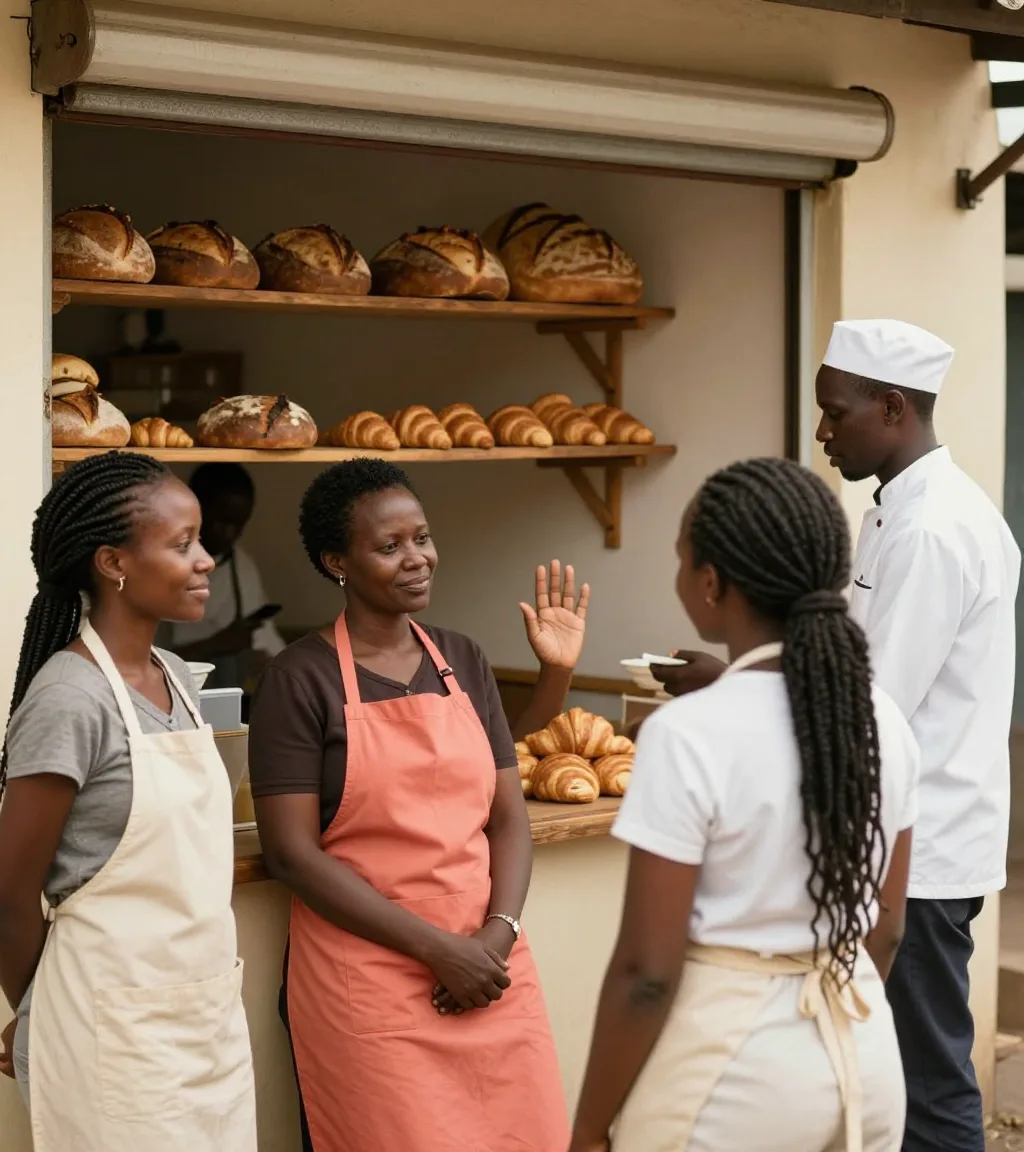
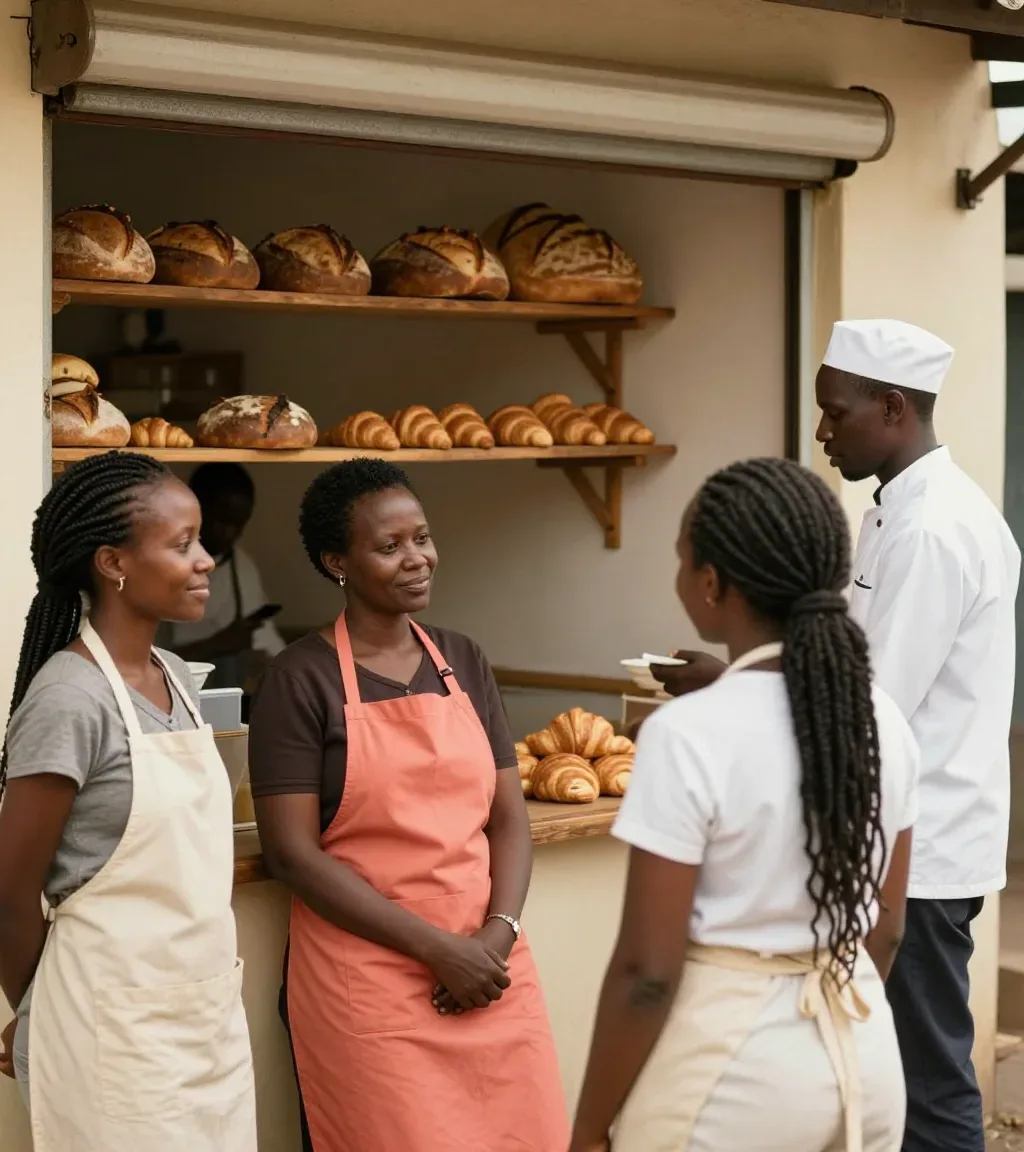
Update from claude/public-repo-483b90 (078368b)

Changed region(s): [[0.4688, 0.4688, 0.5938, 0.6562]]

diff --git a/crates/agentrix-home/templates/film.html b/crates/agentrix-home/templates/film.html
@@ -34,7 +34,7 @@
     <li class="after"><p class="when">1:06 · The same Saturday, 8 a.m.</p><p>Calm at the counter. Kilele's new site is up, with today's bakes on it.</p></li>
     <li class="after"><p class="when">1:12 · 11:02 a.m.</p><p>In Wanjiru's console, every order sits in one list with a time to collect.</p><p class="said">Orders land in one list, each with a time to collect.</p></li>
     <li class="after"><p class="when">1:20 · 2:14 p.m.</p><p>Amani and Zawadi design the cake on the site: two tiers, gluten-free sponge, vanilla, to collect. The site doesn't know about gold lettering, so it asks Wanjiru on Telegram, and she answers yes between batches.</p><p class="said">Amani designs Zawadi's cake from what Kilele actually makes. What the site doesn't know, it asks Wanjiru on Telegram. She answers between batches.</p></li>
-    <li class="after"><p class="when">1:32 · 6 p.m.</p><p>The staff wave goodbye at closing. In the console, a reply and an order wait for Wanjiru's yes.</p><p class="said">The shop closes. The website keeps working.</p></li>
+    <li class="after"><p class="when">1:32 · 6 p.m.</p><p>At closing, Wanjiru and her staff chat and smile at the counter. In the console, a reply and an order wait for Wanjiru's yes.</p><p class="said">The shop closes. The website keeps working.</p></li>
     <li class="after"><p class="when">1:39 · 11:40 p.m.</p><p>Tomorrow's prep list, from fourteen orders: flour, butter, eggs, cake boxes and collection times. The prep list is coming next to Agentrix; the film shows it early.</p><p class="said">By morning, tomorrow's work is planned.</p></li>
     <li class="after"><p class="when">1:47 · Sunday, 7 a.m.</p><p>Every order is boxed and labelled, and there's time for coffee. The console's morning brief is waiting.</p><p class="said">Sunday morning. Nobody's surprised.</p></li>
     <li class="after"><p class="when">1:55 · 10 a.m.</p><p>Amani collects her cake, and leaves five stars.</p><p class="said">Amani's cake, on time.</p></li>

diff --git a/README.md b/README.md
@@ -2,9 +2,10 @@
 
 **Move your website. Meet your WebAgents.**
 
-Agentrix moves a small business's website off WordPress, hacked or not, onto a **WebAgent
-site**: a fast, signed website staffed by AI WebAgents that answer customers, take orders,
-write the morning brief and ask the owner before anything that matters.
+Agentrix moves a small business's website off WordPress onto a **WebAgent site**: a fast,
+signed website staffed by proactive, responsive and supportive AI agents that work 24/7 for the
+owner. They answer customers, take orders, write the morning brief and ask the owner before
+anything that matters.
 
 The old site is never trusted. It is read, replayed and rebuilt inside **sealed rooms** on a
 separate machine with no secrets and no way out except a per-job allowlist. The new site goes
